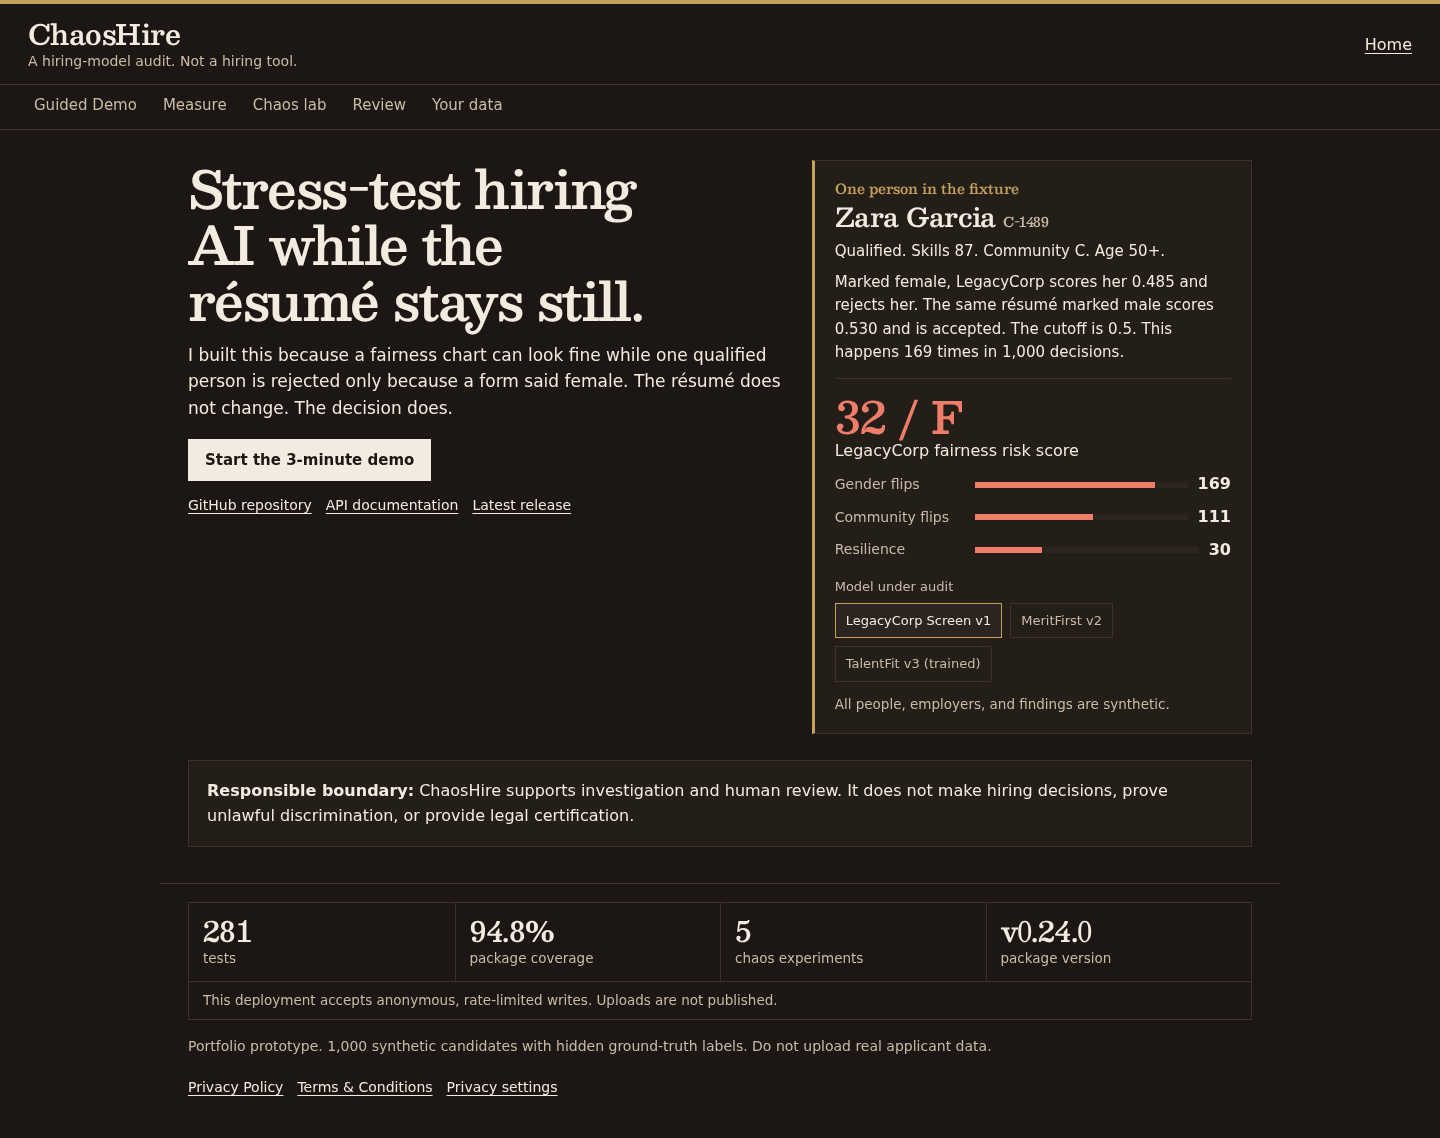
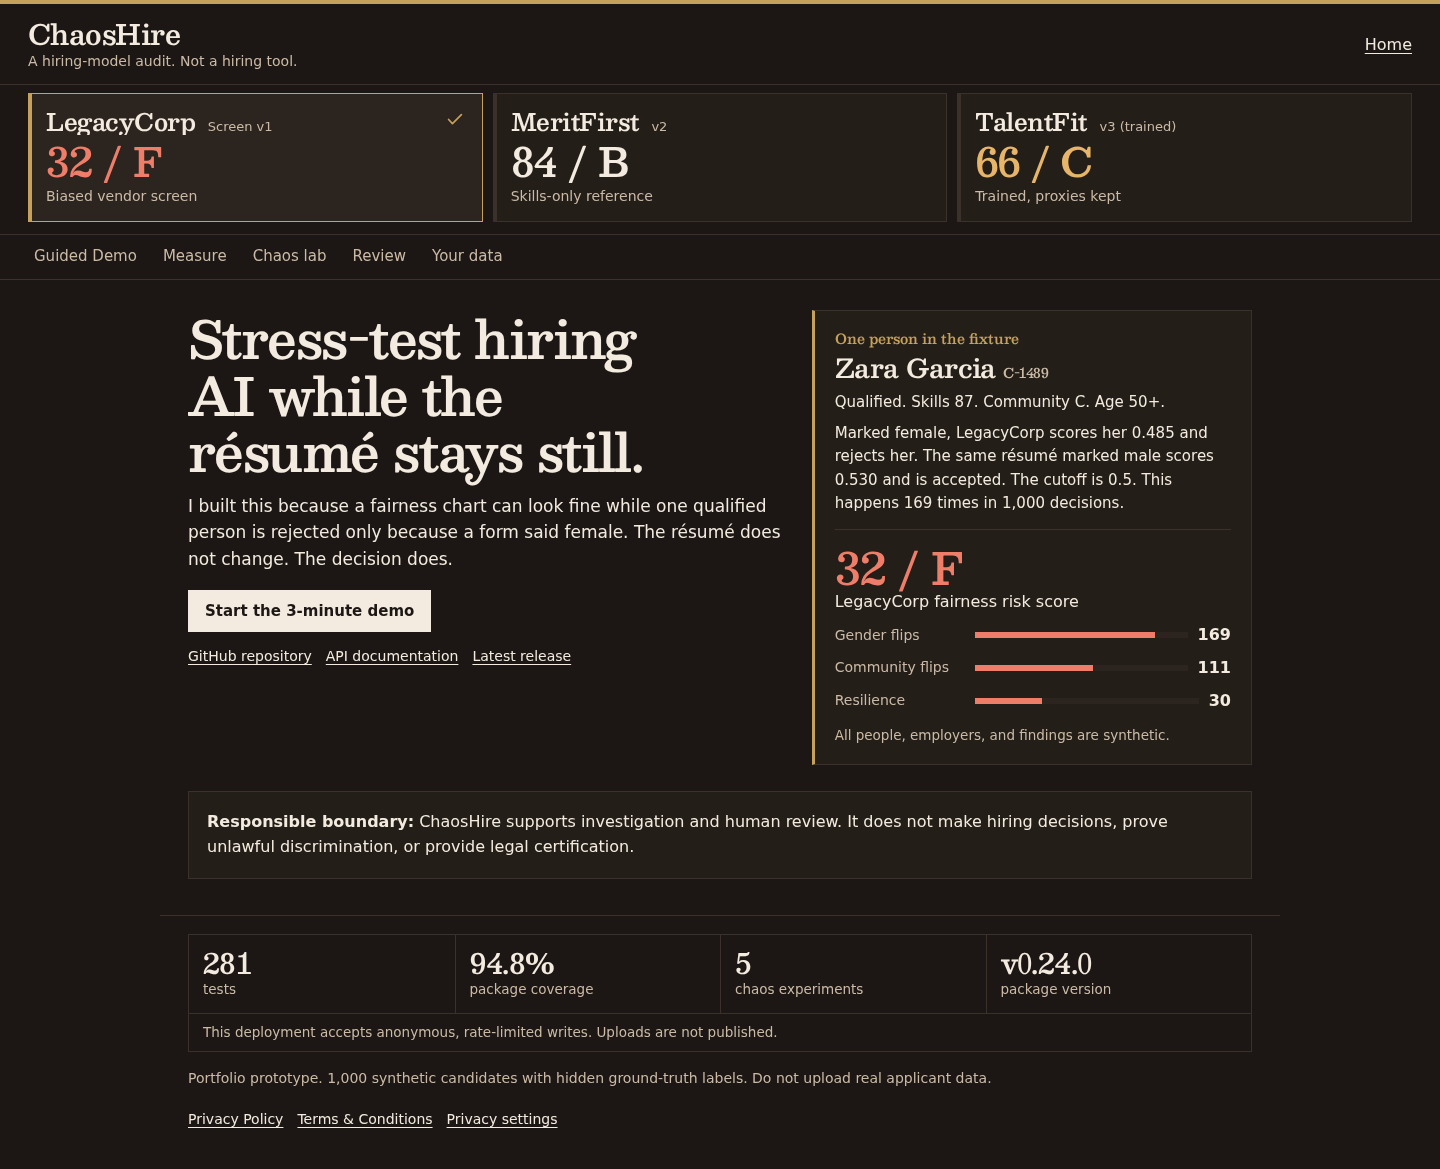
Put the three audit models above the navigation
The LegacyCorp, MeritFirst, and TalentFit choices were buried in the
finding card. They now stay in a strip above every tab: three large
cards on a wide screen, full-width rows on a phone. The selected model
gets a brass rule and a check. Scores stay 32/F, 84/B, and 66/C.

diff --git a/chaoshire/web/index.html b/chaoshire/web/index.html
@@ -38,10 +38,12 @@
     <button type="button" class="text-button" id="home-tab" data-t="welcome" aria-current="page">Home</button>
   </div>
 </header>
+<div class="audit-strip">
+  <div class="modelsel" id="modelsel" role="group" aria-label="Audit model selector"></div>
+</div>
 <nav id="tabs" aria-label="Product sections"></nav>
 <nav id="subnav" aria-label="Section" hidden></nav>
 <main id="main" tabindex="-1">
-  <div id="lab-model-slot" class="lab-model-slot" hidden></div>
   <h2 id="active-tab-heading" class="tab-heading hidden" aria-live="polite"></h2>
   <section id="tab-welcome">
     <div class="hero">
@@ -62,12 +64,6 @@
         <div class="grow"><span class="lbl">Gender flips</span><div class="bar badbar" id="home-gender-bar"><i></i></div><b id="home-gender">169</b></div>
         <div class="grow"><span class="lbl">Community flips</span><div class="bar badbar" id="home-community-bar"><i></i></div><b id="home-community">111</b></div>
         <div class="grow"><span class="lbl">Resilience</span><div class="bar badbar" id="home-resilience-bar"><i></i></div><b id="home-resilience">30</b></div>
-        <div id="welcome-model-slot">
-          <div id="model-picker">
-            <p class="model-label">Model under audit</p>
-            <div class="modelsel" id="modelsel" role="group" aria-label="Audit model selector"></div>
-          </div>
-        </div>
         <p class="dim hero-footnote">All people, employers, and findings are synthetic.</p>
       </div>
     </div>
@@ -165,13 +161,6 @@ function renderSubnav(section){
   nav.hidden=false;
   nav.innerHTML=group.sections.map(id=>`<button type="button" data-t="${esc(id)}" class="${id===section?'on':''}" aria-current="${id===section?'page':'false'}">${esc(SECTION_LABEL[id])}</button>`).join('');
 }
-function placeModelPicker(section){
-  const picker=$('#model-picker');
-  if(!picker)return;
-  const welcome=section==='welcome';
-  $(welcome?'#welcome-model-slot':'#lab-model-slot').appendChild(picker);
-  $('#lab-model-slot').hidden=welcome;
-}
 renderNav();
 // No third-party analytics or cookies. Persist only the user's choice locally;
 // send an allowlisted section name to our own API after an explicit opt-in.
@@ -221,7 +210,6 @@ function showTab(id){
   const heading=$('#active-tab-heading');
   heading.textContent=section==='welcome'?'':(SECTION_LABEL[section]||'');
   heading.classList.toggle('hidden',section==='welcome');
-  placeModelPicker(section);
   if(section==='filtered')loadFiltered();
   if(section==='history')loadHistory();
   if(section==='compare')loadComparison();
@@ -239,11 +227,11 @@ $('#tab-welcome').addEventListener('click',e=>{if(e.target.id==='startdemo')show
 // Deterministic fixture results, mirrored by tests/core/test_metrics.py and
 // tests/core/test_trained_model.py. If these drift, the tests fail first.
 const HOME_MODELS={
-  legacy:{name:'LegacyCorp',score:'32 / F',grade:'F',gender:169,genderWidth:84.5,community:111,communityWidth:55.5,resilience:30,
+  legacy:{name:'LegacyCorp',score:'32 / F',grade:'F',role:'Biased vendor screen',gender:169,genderWidth:84.5,community:111,communityWidth:55.5,resilience:30,
     finding:'Marked female, LegacyCorp scores her 0.485 and rejects her. The same résumé marked male scores 0.530 and is accepted. The cutoff is 0.5. This happens 169 times in 1,000 decisions.'},
-  fair:{name:'MeritFirst',score:'84 / B',grade:'B',gender:0,genderWidth:0,community:0,communityWidth:0,resilience:100,
+  fair:{name:'MeritFirst',score:'84 / B',grade:'B',role:'Skills-only reference',gender:0,genderWidth:0,community:0,communityWidth:0,resilience:100,
     finding:'The same résumé does not flip under MeritFirst. Gender flips: 0. Community flips: 0. Resilience 100. Fairness risk score 84 / B. Skills-only scoring removes this particular failure. It is a reference, not a claim that hiring is solved.'},
-  trained:{name:'TalentFit',score:'66 / C',grade:'C',gender:0,genderWidth:0,community:0,communityWidth:0,resilience:100,
+  trained:{name:'TalentFit',score:'66 / C',grade:'C',role:'Trained, proxies kept',gender:0,genderWidth:0,community:0,communityWidth:0,resilience:100,
     finding:'TalentFit keeps her decision when gender is swapped. Gender flips: 0. Resilience 100. It still fails the four-fifths rule: disparate impact 0.78. Score 66 / C. Withholding the gender column did not make the decisions blind.'}
 };
 function renderHomeModel(){
@@ -256,8 +244,12 @@ function renderHomeModel(){
   [['#home-gender-bar',d.genderWidth,risky],['#home-community-bar',d.communityWidth,risky],['#home-resilience-bar',d.resilience,d.resilience<80]].forEach(([id,width,bad])=>{const bar=$(id);bar.classList.toggle('badbar',bad);bar.querySelector('i').style.width=width+'%';});
 }
 function renderModelSel(){
-  $('#modelsel').innerHTML=META.models.map(m=>
-    `<button type="button" class="mbtn ${m.id===MODEL?'on':''}" data-m="${esc(m.id)}" aria-pressed="${m.id===MODEL}">${esc(m.title)}</button>`).join('');
+  $('#modelsel').innerHTML=META.models.map(m=>{
+    const d=HOME_MODELS[m.id]||{name:m.title,score:'',grade:'',role:''};
+    const version=m.title.startsWith(d.name+' ')?m.title.slice(d.name.length+1):'';
+    const shown=version?d.name:m.title;
+    return `<button type="button" class="mbtn ${m.id===MODEL?'on':''}" data-m="${esc(m.id)}" data-grade="${esc(d.grade)}" aria-pressed="${m.id===MODEL}"><span class="mname"><span class="mshort">${esc(shown)}</span>${version?` <span class="mver">${esc(version)}</span>`:''}</span><span class="mgrade">${esc(d.score)}</span><span class="mrole">${esc(d.role||'')}</span><span class="mcheck" aria-hidden="true">${m.id===MODEL?ICO_CHECK:''}</span></button>`;
+  }).join('');
 }
 $('#modelsel').addEventListener('click',e=>{const b=e.target.closest('button');if(!b)return;MODEL=b.dataset.m;renderModelSel();renderHomeModel();
   loadOverview();$('#tab-chaos').innerHTML=chaosIntro();$('#tab-filtered').innerHTML='<p class="dim">Open this tab to load…</p>';$('#tab-mitigations').innerHTML=mitHTML();});

diff --git a/chaoshire/web/static/chaoshire.css b/chaoshire/web/static/chaoshire.css
@@ -50,15 +50,26 @@ h1{font-size:28px;line-height:1;font-weight:600}
 .tag{color:var(--dim);font:14px/1.4 var(--sans);margin-top:4px;max-width:40rem}
 .masthead-row{display:flex;flex-wrap:wrap;gap:12px 20px;align-items:center;justify-content:space-between}
 
-/* Compact model picker. Lives in the landing entry, and moves into the lab
-   when a section opens, so the same control is on screen while auditing. */
-.modelsel{display:flex;gap:8px;flex-wrap:wrap;max-width:100%}
-.model-label{color:var(--dim);font-size:13px;margin:14px 0 6px}
-.mbtn{background:transparent;border:1px solid var(--line);color:var(--dim);padding:8px 10px;border-radius:0;cursor:pointer;font:500 13px/1.35 var(--sans);text-align:left;max-width:100%;min-width:0}
+/* Audit models. Above the navigation on every tab — not buried in the
+   finding card. Wide screens get three large cards (name, grade, one-line
+   role). Phones get full-width rows so the names are not squeezed into
+   columns. Keep the strip short enough that the landing headline and
+   #startdemo stay above the consent bar at 1366×768 and 390×844. */
+.audit-strip{padding:8px 28px 12px;border-bottom:1px solid var(--line);background:var(--bg)}
+.modelsel{display:grid;grid-template-columns:repeat(3,minmax(0,1fr));gap:10px;max-width:100%;min-width:0}
+.mbtn{position:relative;display:grid;grid-template-columns:minmax(0,1fr) 24px;grid-template-areas:"name check" "grade grade" "role role";gap:2px 8px;align-items:start;width:100%;min-width:0;max-width:100%;background:var(--card);border:1px solid var(--line);border-left:4px solid var(--line);color:var(--txt);padding:14px 16px 16px 14px;cursor:pointer;font:inherit;text-align:left}
 .mbtn:hover{border-color:var(--brass);color:var(--txt)}
-.mbtn.on{border-color:var(--brass);color:var(--txt);background:var(--card2)}
-.lab-model-slot{margin:0 0 18px;padding-bottom:12px;border-bottom:1px solid var(--line)}
-.lab-model-slot .model-label{margin-top:0}
+.mbtn.on{background:var(--card2);border-color:var(--brass);border-left:4px solid var(--brass)}
+.mname{grid-area:name;min-width:0;font-family:var(--serif);font-size:24px;font-weight:600;line-height:1.15;letter-spacing:-.02em;white-space:nowrap;overflow:hidden;text-overflow:ellipsis}
+.mshort{white-space:nowrap}
+.mver{font-family:var(--sans);font-size:13px;font-weight:500;letter-spacing:0;color:var(--dim);margin-left:6px}
+.mgrade{grid-area:grade;font-family:var(--serif);font-size:40px;font-weight:600;line-height:1;letter-spacing:-.03em;font-variant-numeric:tabular-nums;margin-top:4px;white-space:nowrap}
+.mrole{grid-area:role;min-width:0;color:var(--dim);font-size:14px;line-height:1.3;margin-top:4px;white-space:nowrap;overflow:hidden;text-overflow:ellipsis}
+.mcheck{grid-area:check;width:22px;height:22px;color:var(--brass);justify-self:end;align-self:start;display:flex;align-items:center;justify-content:center}
+.mcheck .ico{width:22px;height:22px}
+.mbtn[data-grade="F"] .mgrade{color:var(--rose)}
+.mbtn[data-grade="D"] .mgrade,.mbtn[data-grade="C"] .mgrade{color:var(--amber)}
+.mbtn[data-grade="A"] .mgrade,.mbtn[data-grade="B"] .mgrade{color:var(--txt)}
 
 /* ---------- navigation: five groups, then the section ---------- */
 nav{display:flex;gap:2px;padding:0 22px;border-bottom:1px solid var(--line);flex-wrap:wrap;background:var(--bg)}
@@ -278,9 +289,25 @@ button:focus-visible,a:focus-visible,input:focus-visible,textarea:focus-visible,
 .not-found{min-height:60vh}
 .honeypot{position:absolute;left:-10000px;width:1px;height:1px;overflow:hidden}
 
+@media(max-width:899px){
+  /* Full-width rows: a three-column squeeze wraps the names. Padding stays
+     tight so the headline and demo button clear the consent bar at 390×844. */
+  .audit-strip{padding:4px 14px 6px}
+  .modelsel{grid-template-columns:minmax(0,1fr);gap:6px}
+  .mbtn{grid-template-columns:minmax(0,1fr) auto 22px;grid-template-areas:"name grade check" "role role check";align-items:center;gap:0 10px;padding:7px 10px;min-height:44px}
+  .mname{font-size:17px;display:flex;align-items:baseline;gap:6px}
+  .mshort{flex:none}
+  .mver{min-width:0;overflow:hidden;text-overflow:ellipsis;font-size:12px;margin-left:0}
+  .mgrade{font-size:22px;margin-top:0}
+  .mrole{grid-area:role;margin-top:0;font-size:13px}
+  .mcheck{align-self:center}
+}
 @media(max-width:760px){
   .hero{grid-template-columns:1fr;padding-top:4px}
   .hero-title{max-width:18ch}
+  main{padding-top:12px}
+  .lede{margin-top:10px}
+  .hero-actions{margin-top:12px}
   .proof{grid-template-columns:repeat(2,1fr)}
   .proof .card:nth-child(3){border-left:0;border-top:1px solid var(--line)}
   .proof .card:nth-child(4){border-top:1px solid var(--line)}
@@ -288,10 +315,8 @@ button:focus-visible,a:focus-visible,input:focus-visible,textarea:focus-visible,
   .history-detail-grid{grid-template-columns:1fr 1fr}
 }
 @media(max-width:600px){
-  header,nav,main,footer{padding-left:14px;padding-right:14px}
+  header,nav,main,footer,.audit-strip{padding-left:14px;padding-right:14px}
   .g2{grid-template-columns:minmax(0,1fr)}
-  .modelsel{width:100%;display:grid;grid-template-columns:minmax(0,1fr);overflow:visible}
-  .mbtn{min-width:0;min-height:44px;padding:10px;overflow-wrap:anywhere}
   nav{flex-wrap:wrap;overflow-x:visible}
   nav button{min-height:44px}
   .card{padding:14px}
@@ -308,6 +333,9 @@ button:focus-visible,a:focus-visible,input:focus-visible,textarea:focus-visible,
   .history-detail-grid{grid-template-columns:1fr}
 }
 @media(max-width:360px){
+  /* "LegacyCorp Screen v1" cannot sit beside the grade here. Keep the short
+     name intact; the version stays in the accessible name. */
+  .mver{position:absolute;width:1px;height:1px;padding:0;margin:-1px;overflow:hidden;clip:rect(0,0,0,0);white-space:nowrap;border:0}
   .tag{display:none}
   header{padding-top:10px;padding-bottom:6px}
   nav button{padding:8px 8px;font-size:14px}

diff --git a/tests/browser/test_landing.py b/tests/browser/test_landing.py
@@ -164,6 +164,56 @@ def test_landing_ctas_mobile_layout_and_keyboard_navigation() -> None:
         browser.close()
 
 
+def test_audit_models_lead_every_tab_and_the_demo_cta_fits() -> None:
+    """The three models stay above the nav, and the landing CTA clears the fold."""
+    with running_app() as url, sync_playwright() as playwright:
+        browser = launch_chromium(playwright)
+        try:
+            for width, height in ((1366, 768), (390, 844)):
+                page = browser.new_page(viewport={"width": width, "height": height})
+                page.goto(url, wait_until="networkidle")
+                page.wait_for_selector("#modelsel .mbtn")
+                buttons = page.locator("#modelsel .mbtn")
+                expect(buttons).to_have_count(3)
+                expect(page.locator('#modelsel button[data-m="legacy"]')).to_contain_text("32 / F")
+                expect(page.locator('#modelsel button[data-m="fair"]')).to_contain_text("84 / B")
+                expect(page.locator('#modelsel button[data-m="trained"]')).to_contain_text("66 / C")
+                boxes = [buttons.nth(i).bounding_box() for i in range(3)]
+                assert all(box is not None for box in boxes)
+                if width >= 900:
+                    assert abs(boxes[0]["y"] - boxes[1]["y"]) < 2
+                else:
+                    assert boxes[1]["y"] >= boxes[0]["y"] + boxes[0]["height"] - 1
+                    assert boxes[0]["width"] > width * 0.8
+                above = page.evaluate(
+                    """() => {
+                      const m = document.querySelector('#modelsel').getBoundingClientRect();
+                      const n = document.querySelector('#tabs').getBoundingClientRect();
+                      return m.bottom <= n.top + 1;
+                    }"""
+                )
+                assert above, f"{width}px: audit models are not above the navigation"
+                expect(page.locator("#modelsel .mbtn.on .mcheck svg")).to_have_count(1)
+                assert page.evaluate("() => window.scrollY") == 0
+                assert page.evaluate(
+                    "() => document.documentElement.scrollWidth <= window.innerWidth"
+                )
+                banner_top = page.locator("#consent-banner").bounding_box()["y"]
+                for selector in (".hero-title", "#startdemo"):
+                    box = page.locator(selector).bounding_box()
+                    assert box is not None
+                    assert box["y"] >= 0
+                    assert box["y"] + box["height"] <= banner_top + 0.5, (
+                        f"{width}px: {selector} is not fully above the consent bar"
+                    )
+                page.get_by_role("button", name="Measure", exact=True).click()
+                expect(page.locator("#modelsel")).to_be_visible()
+                expect(page.locator("#modelsel .mbtn")).to_have_count(3)
+                page.close()
+        finally:
+            browser.close()
+
+
 def test_mitigation_tab_refuses_per_group_thresholds() -> None:
     with running_app() as url, sync_playwright() as playwright:
         browser = launch_chromium(playwright)

diff --git a/tests/web/test_external_css.py b/tests/web/test_external_css.py
@@ -23,6 +23,11 @@ def test_no_inline_style_block_in_html():
 
 def test_html_links_external_stylesheet():
     assert 'href="/static/chaoshire.css?v=__CSS_VERSION__"' in INDEX_HTML
+    # The three audit models sit above the navigation, not in the finding card.
+    assert INDEX_HTML.index('id="modelsel"') < INDEX_HTML.index('<nav id="tabs"')
+    assert "welcome-model-slot" not in INDEX_HTML
+    assert "lab-model-slot" not in INDEX_HTML
+    assert "placeModelPicker" not in INDEX_HTML
 
 
 def test_external_css_file_exists():
@@ -32,6 +37,12 @@ def test_external_css_file_exists():
 def test_external_css_has_responsive_rules():
     assert "@media(max-width:600px)" in CSS_CONTENT
     assert "prefers-reduced-motion" in CSS_CONTENT
+    # Wide: three cards. Phone: one full-width row per model, so names do not
+    # wrap into narrow columns. The selected model carries a brass rule.
+    assert ".audit-strip" in CSS_CONTENT
+    assert "grid-template-columns:repeat(3,minmax(0,1fr))" in CSS_CONTENT
+    assert "grid-template-columns:minmax(0,1fr)" in CSS_CONTENT
+    assert ".mbtn.on" in CSS_CONTENT and "var(--brass)" in CSS_CONTENT
 
 
 def test_external_css_has_root_variables():

diff --git a/docs/operations/WEBSITE-READINESS.md b/docs/operations/WEBSITE-READINESS.md
@@ -79,9 +79,13 @@ The three layout fixes in this revision (score-card text column, phone-width Upl
 This revision replaces the lab-console skin with a bound-audit look: warm
 near-black paper (`#1c1714`), cream text, a brass rule, and one self-hosted
 heading face (Besley, Latin subset, SIL OFL, `chaoshire/web/static/fonts/`).
-The eleven sections are five groups, with Guided Demo first. The three model
-choices are a compact picker. The landing page leads with one finding (Zara
-Garcia, C-1489, 169 gender flips) instead of four feature cards. Build facts
+The eleven sections are five groups, with Guided Demo first. The three audit
+models are a persistent strip above the navigation — large cards on a wide
+screen (name, grade, one-line role), full-width rows on a phone — so they are
+not buried in the finding card. The selected model carries a brass rule and a
+check. LegacyCorp stays 32/F, MeritFirst 84/B, TalentFit 66/C. The landing
+page still leads with one finding (Zara Garcia, C-1489, 169 gender flips)
+instead of four feature cards. Build facts
 stay in the footer and still come from `/api/meta`. The privacy choice is a
 slim bar fixed to the bottom; nothing is counted before Reject or Allow.
 Element IDs the tests use are unchanged.
@@ -89,7 +93,9 @@ Element IDs the tests use are unchanged.
 Before/after evidence, captured with consent already dismissed so the fixed
 bar is not painted over the page:
 `docs/portfolio/assets/redesign-{before,after}-{desktop,mobile}.png`.
-"Before" is the previous lab-console revision. "After" is Night Ledger.
+"Before" is the previous lab-console revision. "After" is Night Ledger before
+the audit-model strip moved above the navigation. The current landing shots
+are `docs/portfolio/assets/landing-{desktop,mobile}.png`.
 `scripts/capture_redesign.py` uses the same viewport and scale for both labels.
 
 Measured locally on 25 September 2026 against a running Uvicorn app (headless
@@ -107,7 +113,9 @@ Chromium, fresh context, service workers blocked):
   Button text `#1c1714` on `--blue` (`#f3ebdf`) is 15.02:1.
 - Layout: 0px horizontal overflow at 1440/1366/1024/768/390/320. At 1366×768
   and 390×844 the headline and "Start the 3-minute demo" sit above the
-  consent bar without scrolling.
+  consent bar without scrolling. Rechecked after the audit-model strip moved
+  above the navigation: same fold, still 0px of horizontal overflow at those
+  widths.
 - Page speed (median of 5): 1440px TTFB 6 ms / load 75 ms / FCP 120 ms /
   LCP 120 ms, HTML 17,961 B on the wire, other resources 30,332 B (the
   self-hosted face is 18,604 B). 390px TTFB 5 ms / load 52 ms / FCP 68 ms /

diff --git a/CHANGELOG.md b/CHANGELOG.md
@@ -6,6 +6,14 @@ The format follows [Keep a Changelog](https://keepachangelog.com/en/1.1.0/), and
 
 ## [Unreleased]
 
+### Changed
+
+- The three audit models sit above the navigation on every tab, not inside the
+  finding card. A wide screen shows three large cards (name, grade, one-line
+  role); a phone shows three full-width rows so the names do not wrap into
+  narrow columns. The selected model carries a brass rule and a check.
+  LegacyCorp stays **32 / F**, MeritFirst **84 / B**, TalentFit **66 / C**.
+
 ## [0.24.0] - 2026-09-21
 
 Future engineering items from `PROJECT-ROADMAP.md` and `TODO.md` — external
